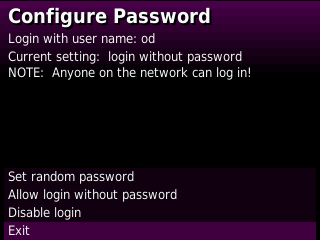
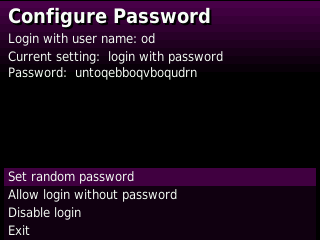
Set password on 'od' user.

Changed region(s): [[0.0, 0.9042, 1.0, 1.0], [0.0, 0.7, 1.0, 0.7875], [0.0312, 0.2042, 0.7812, 0.35]]

diff --git a/README_es.md b/README_es.md
@@ -26,7 +26,7 @@
 
 ## Introducción
 
-Configuración de tarjeta interna (ranura INT) para consolas RG350, RG280, RG300X, PlayGo y PocketGo2. Resultado de un proyecto de colaboración del Team RParadise formado por:
+Configuración de tarjeta interna (ranura INT) para consolas portátiles de emulación basadas en chip Ingenic JZ4770 (concretamente las que se mencionan en la descripción de [este commit](https://github.com/OpenDingux/linux/commit/8fdd85c7198ab553dcbb36d3d62441fc9b655ed3)), es decir RG350, RG280, RG300X, PlayGo y PlayGo/PocketGo2. Resultado de un proyecto de colaboración del Team RParadise formado por:
 
 * [Brumagix Gamer](https://www.youtube.com/channel/UCrdNisYjDd7qI1Zv2ZLwBrQ)
 * [eduardófilo](https://apuntes.eduardofilo.es/)
@@ -273,7 +273,7 @@ Una vez que la tarjeta con el sistema (INT) y con los contenidos (EXT) han sido 
 ssh od@10.1.1.2
 ```
 
-El password del usuario `od` es también `od`, pero al acceder por SSH no se pide por la configuración hecha con la aplicación `Password` (sólo accesible desde GMenu2X en la sección `settings`).
+El password del usuario `od` es `untoqebboqvboqudrn`. Si se quiere cambiar o desactivar, hay que utilizar la aplicación `Password` (sólo accesible desde GMenu2X en la sección `settings`).
 
 ![Network access 1](images/network_access1.png)
 

diff --git a/README.md b/README.md
@@ -26,7 +26,7 @@
 
 ## Introduction
 
-Internal card setup (INT slot) for RG350, RG280, RG300X, PlayGo and PocketGo2 consoles. Result of a collaboration project of Team RParadise formed by:
+Internal card (INT slot) setup for Ingenic JZ4770 chip-based portable emulation consoles (specifically those mentioned in the description of [this commit](https://github.com/OpenDingux/linux/commit/8fdd85c7198ab553dcbb36d3d62441fc9b655ed3)), i.e. RG350, RG280, RG300X, PlayGo and PlayGoPocketGo2 consoles. Result of a collaboration project of Team RParadise formed by:
 
 * [Brumagix Gamer](https://www.youtube.com/channel/UCrdNisYjDd7qI1Zv2ZLwBrQ)
 * [eduardófilo](https://apuntes.eduardofilo.es/)
@@ -269,7 +269,7 @@ Once the card with the system (INT) and the contents (EXT) have been inserted in
 ssh od@10.1.1.2
 ```
 
-The password of user `od` is also` od`, but when accessing by SSH it is not requested by the configuration made with the `Password` application (only accessible from GMenu2X in the `settings` section).
+El password del usuario `od` es `untoqebboqvboqudrn`. If you want to change or disable it, you must use the `Password` application (only accessible from GMenu2X in the `settings` section).
 
 ![Network access 1](images/network_access1.png)
 
